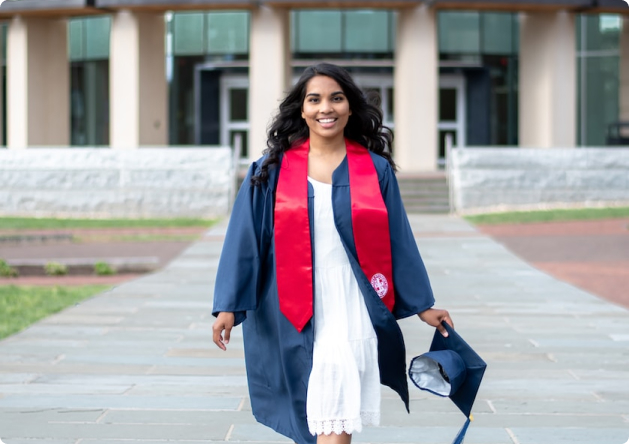
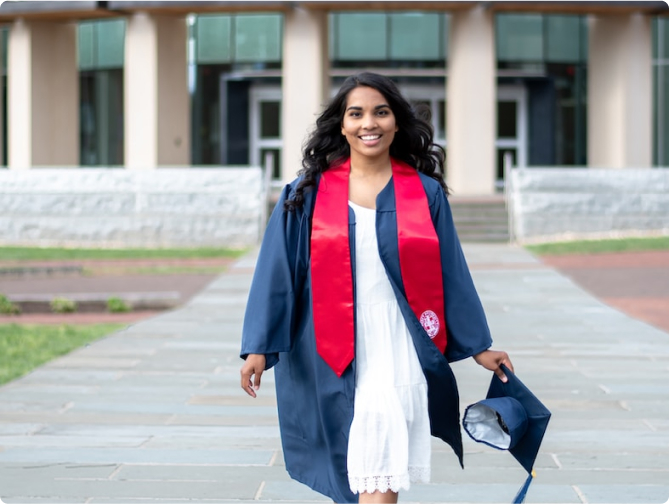
update

diff --git a/src/constants/conditions.ts b/src/constants/conditions.ts
@@ -1,7 +1,22 @@
 export const conditions = [
-  "An 18 year old under graduate who has gained admission into a reputable institution.",
-  "A citizen student of Austrailia, United States, India and European Nations.",
-  "An international student who is looking to further his/her education abroad.",
-  "A resident student of Australia, United States, India and European Nations.",
-  "An undergraduate or graduate students within 2 years of graduating or about to begin a 1 or 2 years program.",
+  {
+    icon: "logos/eligible/reading-book.svg",
+    text: "An 18 year old under graduate who has gained admission into a reputable institution.",
+  },
+  {
+    icon: "logos/eligible/pin.svg",
+    text: "A citizen student of Austrailia, United States, India and European Nations.",
+  },
+  {
+    icon: "logos/eligible/location.svg",
+    text: "An international student who is looking to further his/her education abroad.",
+  },
+  {
+    icon: "logos/eligible/earth-grid-symbol.svg",
+    text: "A resident student of Australia, United States, India and European Nations.",
+  },
+  {
+    icon: "logos/eligible/mortarboard.svg",
+    text: "An undergraduate or graduate students within 2 years of graduating or about to begin a 1 or 2 years program.",
+  },
 ];

diff --git a/src/sections/About.tsx b/src/sections/About.tsx
@@ -10,7 +10,6 @@ export function About() {
           visible: { opacity: 1, y: 0, transition: { duration: 0.3 } },
         }}
       >
-        <img src="images/about/1.png" alt="smiling woman" />
         <div className="about_text-images_content">
           <h2 className="title">About Study Loans</h2>
           <div>
@@ -21,9 +20,18 @@ export function About() {
             Providers. We also connect you with work and internship
             opportunities.
           </div>
-          <img src="images/about/2.png" className="about_text-images_image" />
+
+          <img
+            className="about_text-images_content_img"
+            src="images/about/lines.svg"
+            alt="abstract lines"
+          />
         </div>
-        <img src="images/about/3.png" />
+        <img
+          className="about_text-images_img"
+          src="images/about/graduating-people.png"
+          alt="graduating people"
+        />
       </AnimateComponent>
     </div>
   );

diff --git a/src/sections/Eligible.tsx b/src/sections/Eligible.tsx
@@ -21,9 +21,15 @@ export function Eligible() {
           }}
         >
           {conditions.map((condition) => (
-            <div key={condition} className="eligible_content_list_item">
-              <div className="eligible_content_list_item_dot" />
-              <p className="eligible_content_list_item_text">{condition}</p>
+            <div key={condition.text} className="eligible_content_list_item">
+              <img
+                className="eligible_content_list_item_img"
+                src={condition.icon}
+                alt="icon"
+              />
+              <p className="eligible_content_list_item_text">
+                {condition.text}
+              </p>
             </div>
           ))}
         </AnimateComponent>

diff --git a/src/styles/sections/eligible.scss b/src/styles/sections/eligible.scss
@@ -21,7 +21,7 @@
 
   &_content {
     display: flex;
-    gap: 72px;
+    gap: 48px;
 
     @include mobile {
       padding-top: 24px;
@@ -42,22 +42,19 @@
         display: flex;
         align-items: flex-start;
         gap: 16px;
-
-        &_dot {
-          height: 24px;
-          width: 24px;
-          background-color: #6d5fa4;
-          border-radius: 50%;
-        }
+        border: 1px solid #7b7b7e;
+        border-radius: 8px;
+        padding: 20px;
 
         &_text {
           width: 100%;
+          font-size: 16px;
         }
       }
     }
 
     &_image {
-      width: 50% !important;
+      max-width: 52% !important;
 
       @include mobile {
         width: 100% !important;

diff --git a/src/styles/sections/about.scss b/src/styles/sections/about.scss
@@ -17,23 +17,28 @@
 
   &_text-images {
     display: flex;
-    gap: 40px;
+    gap: 16px;
 
     &_content {
       display: flex;
-      align-items: center;
-      justify-content: space-between;
       flex-direction: column;
-      text-align: center;
-      width: auto;
+      text-align: left;
+      max-width: 503px;
+      position: relative;
 
       .title {
-        padding: 0 !important;
+        text-align: left !important;
+        padding: 0 0 24px 0 !important;
+      }
+
+      &_img {
+        position: absolute;
+        top: 240px;
       }
     }
 
-    &_image {
-      width: min-content;
+    &_img {
+      width: 50%;
     }
   }
 }

diff --git a/src/styles/global.scss b/src/styles/global.scss
@@ -97,7 +97,7 @@ button {
     .title {
       padding-bottom: 40px;
       font-family: "Canela Deck Trial", sans-serif;
-      font-size: 40px;
+      font-size: 56px;
       text-align: center;
     }
 

diff --git a/src/styles/sections/data.scss b/src/styles/sections/data.scss
@@ -43,6 +43,11 @@
     height: 100%;
   }
 
+  &_logos {
+    display: flex;
+    gap: 16px;
+  }
+
   &_students {
     padding: 0 24px;
     display: flex;

diff --git a/src/styles/header.scss b/src/styles/header.scss
@@ -15,7 +15,7 @@ ul {
   align-items: center;
   padding: 12px 40px;
   position: fixed;
-  height: 98px;
+  height: 92px;
   width: 100%;
   z-index: 10;
 
